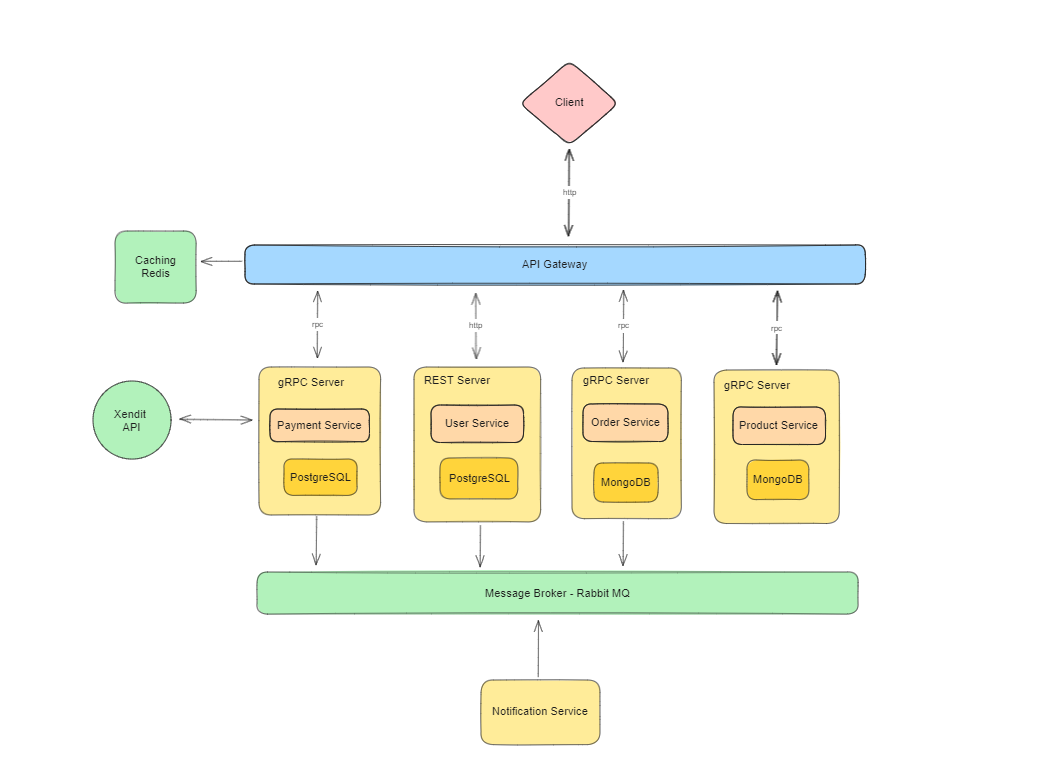
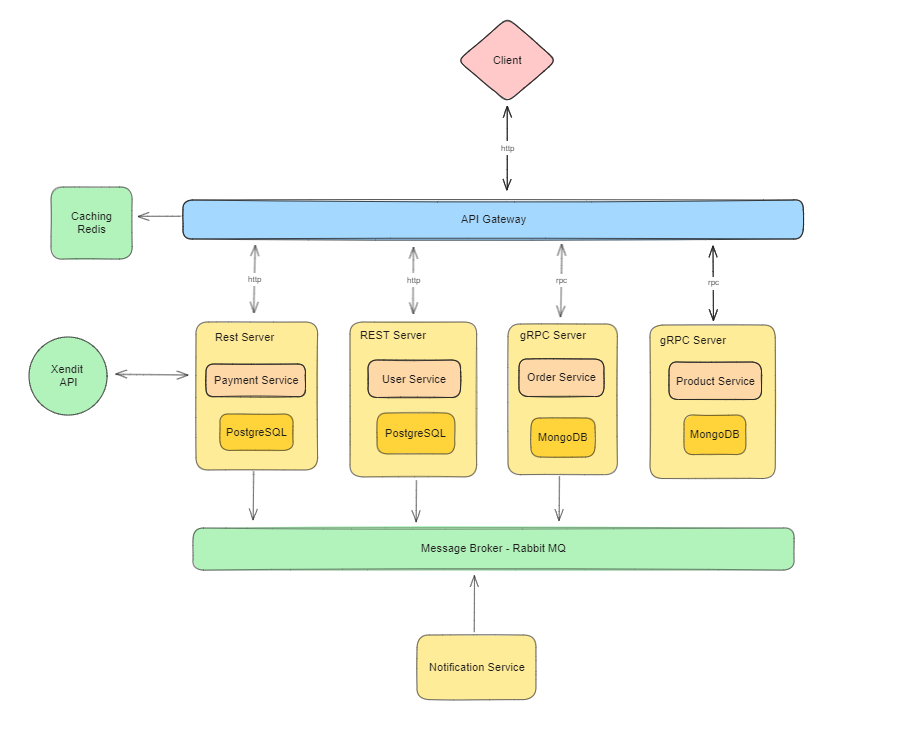
update dokumentasi

Changed region(s): [[0.0305, 0.0312, 0.8836, 0.9674]]

diff --git a/README.md b/README.md
@@ -49,6 +49,9 @@ WellnessLink is a modern platform designed to streamline access to medications a
 - **POST /api/v1/user/register**: Register a new user.
     - **Description**: Register a new user.
     - **Example Request**: **`POST /api/v1/user/register`**
+- **POST /api/v1/user/admin**: Register a new user.
+    - **Description**: Register a new admin.
+    - **Example Request**: **`POST /api/v1/user/admin`**
 - **PUT /api/v1/user/profile/:id**: Update user profile by ID.
     - **Description**: Update user profile based on the provided ID.
     - **Example Request**: **`PUT /api/v1/user/profile/1`**
@@ -62,12 +65,33 @@ WellnessLink is a modern platform designed to streamline access to medications a
     - **Description**: Create a product order.
     - **Auth**: Required (User).
     - **Example Request**: **`POST /api/v1/order`**
+- **POST /api/v1/order/cancel/:id**: Cancel a product order.
+    - **Description**: Cancel a specific order.
+    - **Auth**: Required (User).
+    - **Example Request**: **`/api/v1/order/cancel/1`**
+- **GET /api/v1/order/:id**: Get order by ID.
+    - **Description**: Retrieve details of a specific order.
+    - **Example Request**: **`GET /api/v1/order/1`**
+- **GET /api/v1/order/admin**: Get list of order.
+    - **Description**: Get a list of all orders.
+    - **Auth**: Required (Admin).
+    - **Example Request**: **`GET /api/v1/order/admin`**
+- **PUT /api/v1/order/admin/confirm/:id**: Confirm an order by ID.
+    - **Description**: Confirm an order by ID.
+    - **Auth**: Required (Admin).
+    - **Example Request**: **`PUT /api/v1/order/admin/confirm/1`**
 
 ### Payment
 
-- **POST /api/v1/payment**: Make a payment.
-    - **Description**: Make a payment.
-    - **Example Request**: **`POST /api/v1/payment`**
+- **GET /api/v1/payment/:id**: Get payment details by ID.
+    - **Description**: Find payment details by invoice ID.
+    - **Example Request**: **`GET /api/v1/payment/:1`**
+- **GET /api/v1/payment/order/:id**: Find payment by order ID.
+    - **Description**: Find payment details by order ID.
+    - **Example Request**: **`GET /api/v1/payment/order/1`**
+- **GET /api/v1/payment/user/:id**: Find payment by user ID.
+    - **Description**: Find payment details by user ID.
+    - **Example Request**: **`GET /api/v1/payment/user/1`**
 
 ## Notification Service
 
